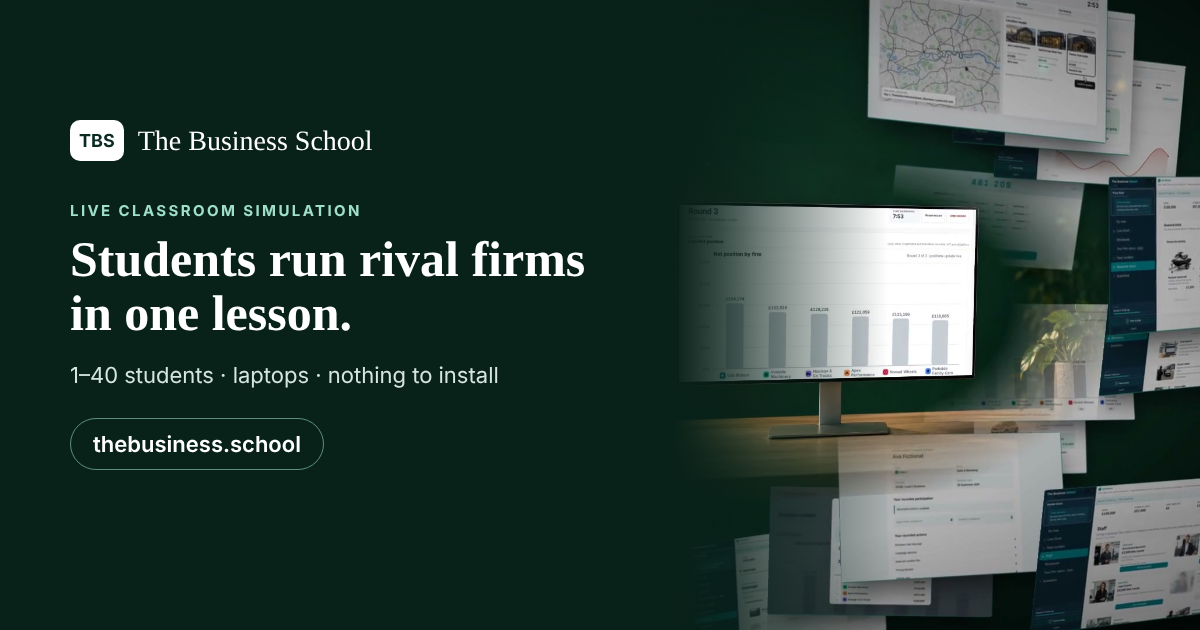
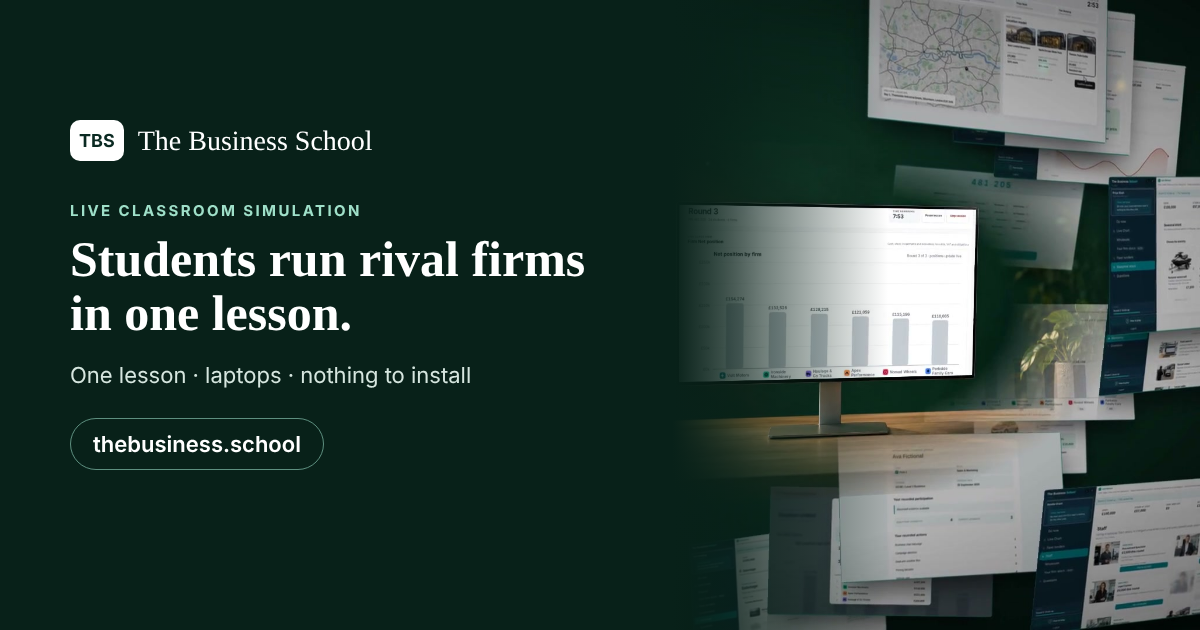
Site: hero without class-size limits, Edexcel topic guide wording, 18-pupil lobby in the timeline, share image and poster say one lesson, laptops, nothing to install (owner 23.10.2026)
Claude-Session: https://claude.ai/code/session_01Np2n7mwxyzcaQWByNZ1ReD

Changed region(s): [[0.0617, 0.573, 0.4317, 0.6333]]

diff --git a/index.html b/index.html
@@ -15,17 +15,17 @@
 <x-dc>
 <helmet>
 <title>The Business School, Live A-Level Business Simulation for Classrooms</title>
-<meta name="description" content="A live, PIN-join business simulation for A-Level, BTEC & IGCSE Business. Up to 10 teams run rival UK firms, pricing, VAT, hiring and deals, with key decisions linked to Edexcel topics. No install. Free teacher demo." />
+<meta name="description" content="A live business simulation for A Level, GCSE and BTEC Business. Students run rival firms in teams: pricing, negotiation, hiring and cash, in one lesson. Students join with a PIN. Free teacher demo." />
 <link rel="canonical" href="https://thebusiness.school/" />
 <meta name="robots" content="index,follow" />
 <meta property="og:type" content="website" />
 <meta property="og:title" content="The Business School, Live A-Level Business Simulation" />
-<meta property="og:description" content="Up to 10 student teams run rival UK firms in a live classroom simulation, with key decisions linked to Edexcel topics. Joined by a PIN. Free teacher demo." />
+<meta property="og:description" content="Students run rival firms in teams in a live classroom simulation: pricing, negotiation, hiring and cash, in one lesson. Free teacher demo." />
 <meta property="og:url" content="https://thebusiness.school/" />
-<meta property="og:image" content="https://thebusiness.school/assets/og-simulation.png?v=20261023a" />
+<meta property="og:image" content="https://thebusiness.school/assets/og-simulation.png?v=20261023b" />
 <meta name="twitter:card" content="summary_large_image" />
 <script type="application/ld+json">
-{"@context":"https://schema.org","@type":"SoftwareApplication","name":"The Business School","applicationCategory":"EducationalApplication","operatingSystem":"Web browser","offers":{"@type":"Offer","price":"0","priceCurrency":"GBP","description":"Free teacher demo"},"description":"A live multiplayer classroom business simulation for UK A-Level, BTEC and IGCSE Business, with key decisions linked to Edexcel topics.","publisher":{"@type":"Organization","name":"TBS Education Ltd Oy","identifier":"3614159-3","url":"https://thebusiness.school"}}
+{"@context":"https://schema.org","@type":"SoftwareApplication","name":"The Business School","applicationCategory":"EducationalApplication","operatingSystem":"Web browser","offers":{"@type":"Offer","price":"0","priceCurrency":"GBP","description":"Free teacher demo"},"description":"A live classroom business simulation for A Level, GCSE and BTEC Business: students run rival firms in teams in one lesson.","publisher":{"@type":"Organization","name":"TBS Education Ltd Oy","identifier":"3614159-3","url":"https://thebusiness.school"}}
 </script>
 <link rel="preconnect" href="https://fonts.googleapis.com" />
 <link rel="preconnect" href="https://fonts.gstatic.com" crossorigin="" />
@@ -163,23 +163,23 @@
     <sc-if value="{{ isSplit }}" hint-placeholder-val="{{ true }}">
       <div style="display:grid;grid-template-columns:repeat(auto-fit,minmax(320px,1fr));gap:48px;align-items:center">
         <div>
-          <span style="font-size:12px;font-weight:700;letter-spacing:.14em;text-transform:uppercase;color:#7fe0d7">A-Level · BTEC · IGCSE Business</span>
+          <span style="font-size:12px;font-weight:700;letter-spacing:.14em;text-transform:uppercase;color:#7fe0d7">A Level · GCSE · BTEC Business</span>
           <sc-if value="{{ pilotBadge }}" hint-placeholder-val="{{ true }}">
             <div style="display:inline-flex;align-items:center;gap:9px;margin:16px 0 2px;padding:7px 14px;border:1px solid rgba(255,255,255,.22);border-radius:999px;background:rgba(255,255,255,.06);font-size:12.5px;font-weight:600;color:#c9d5e8">
               <span style="width:7px;height:7px;border-radius:50%;background:#f0b53d;display:inline-block"></span>Free trial lessons from 2 Nov 2026.
             </div>
           </sc-if>
           <h1 style="font-weight:700;line-height:1.1;color:#fff;font-size:clamp(38px,4.7vw,58px);margin:16px 0 18px">Bring your next Business lesson to life.</h1>
-          <p style="font-size:clamp(16px,1.5vw,18.5px);color:#c9d5e8;max-width:520px">A browser-based business simulation where up to ten student teams compete in one market: pricing, VAT, hiring, investment and boardroom deals. Key decisions are linked to Edexcel topics. No install, students join with a PIN.</p>
+          <p style="font-size:clamp(16px,1.5vw,18.5px);color:#c9d5e8;max-width:520px">Students run rival firms in teams. They negotiate face to face, set prices, hire and manage cash, and watch the results live. One lesson, nothing to install.</p>
           <div style="display:flex;gap:12px;flex-wrap:wrap;margin-top:28px">
             <a href="/pilot/" style="display:inline-flex;align-items:center;gap:8px;font-weight:700;font-size:20px;padding:19px 38px;border-radius:12px;text-decoration:none;background:#0a6b73;color:#fff;border:1px solid transparent;box-shadow:0 8px 24px rgba(10,107,115,.35)" style-hover="background:#075158">Request a trial</a>
             <a href="/for-heads/" style="display:inline-flex;align-items:center;gap:8px;font-weight:600;font-size:15px;padding:13px 24px;border-radius:10px;text-decoration:none;background:rgba(255,255,255,.1);border:1px solid rgba(255,255,255,.3);color:#fff" style-hover="background:rgba(255,255,255,.18)">I lead a department</a>
           </div>
           <p style="margin-top:15px;font-size:13.5px;color:#8fa1bf">Or try the demo now: <a href="https://play.thebusiness.school/" style="color:#7fe0d7;font-weight:600;text-decoration:none">play.thebusiness.school</a></p>
           <div style="margin-top:26px;display:flex;gap:30px;flex-wrap:wrap;font-size:13.5px;color:#c9d5e8">
-            <div><div style="color:#fff;font-weight:600">1 to 40 students</div><div>Solo, or 2 to 10 rival teams</div></div>
+            <div><div style="color:#fff;font-weight:600">Teams</div><div>Every student has a role</div></div>
             <div><div style="color:#fff;font-weight:600">Flexible length</div><div>You set the pace</div></div>
-            <div><div style="color:#fff;font-weight:600">Edexcel topics</div><div>Linked to key decisions</div></div>
+            <div><div style="color:#fff;font-weight:600">Reports</div><div>One for every student</div></div>
           </div>
         </div>
         <div style="background:#fff;border:1px solid rgba(255,255,255,.5);border-radius:16px;box-shadow:0 40px 90px -40px rgba(0,0,0,.7);overflow:hidden;color:#16233f">
@@ -220,9 +220,9 @@
     <!-- PROJECTOR treatment -->
     <sc-if value="{{ isProjector }}" hint-placeholder-val="{{ false }}">
       <div style="text-align:center;max-width:860px;margin:0 auto">
-        <span style="font-size:12.5px;font-weight:700;letter-spacing:.2em;text-transform:uppercase;color:#a9e6df;text-shadow:0 1px 12px rgba(4,16,31,.8)">A-Level · BTEC · IGCSE Business</span>
+        <span style="font-size:12.5px;font-weight:700;letter-spacing:.2em;text-transform:uppercase;color:#a9e6df;text-shadow:0 1px 12px rgba(4,16,31,.8)">A Level · GCSE · BTEC Business</span>
         <h1 style="font-weight:700;line-height:1.08;color:#fff;font-size:clamp(42px,6.2vw,72px);margin:18px auto 0;max-width:900px;text-shadow:0 2px 16px rgba(4,16,31,.65)">Bring your next Business lesson to life.</h1>
-        <p style="font-size:clamp(17.5px,1.9vw,21px);font-weight:500;color:#f0f4f8;max-width:680px;margin:24px auto 0;line-height:1.55;text-shadow:0 1px 7px rgba(4,16,31,.65)">Your students run rival firms, live, in one lesson. Pricing, VAT, hiring and boardroom deals, with key decisions linked to Edexcel topics. No install, students join with a PIN.</p>
+        <p style="font-size:clamp(17.5px,1.9vw,21px);font-weight:500;color:#f0f4f8;max-width:680px;margin:24px auto 0;line-height:1.55;text-shadow:0 1px 7px rgba(4,16,31,.65)">Students run rival firms in teams. They negotiate face to face, set prices, hire and manage cash, and watch the results live. One lesson, nothing to install.</p>
         <sc-if value="{{ pilotBadge }}" hint-placeholder-val="{{ true }}">
           <div style="display:inline-flex;align-items:center;margin:24px auto 0;padding:9px 14px;border:1px solid rgba(255,255,255,.26);border-radius:6px;background:rgba(10,20,38,.42);font-size:14px;font-weight:600;color:#e2eaf6">
             Free trial lessons from 2 Nov 2026.
@@ -495,7 +495,7 @@
         <h3 style="font-family:'Fraunces',Georgia,serif;font-weight:600;color:#0e2038;font-size:23px;margin:12px 0 6px;line-height:1.2">Real decisions. Visible engagement. Fits the budget.</h3>
         <p style="font-size:13.5px;color:#65728c;margin-bottom:20px">You decide what the department adopts.</p>
         <ul style="list-style:none;display:flex;flex-direction:column;gap:13px;margin-bottom:24px">
-          <li style="display:flex;gap:11px;font-size:15px;color:#40506e"><svg style="color:#0a6b73;flex:0 0 auto;margin-top:2px" width="18" height="18" viewBox="0 0 24 24" fill="none"><path d="M5 12l4 4L19 7" stroke="currentColor" stroke-width="2.4" stroke-linecap="round" stroke-linejoin="round"/></svg><span>Key decisions are <b style="color:#16233f;font-weight:600">linked to Edexcel topics</b>, listed on the Curriculum page</span></li>
+          <li style="display:flex;gap:11px;font-size:15px;color:#40506e"><svg style="color:#0a6b73;flex:0 0 auto;margin-top:2px" width="18" height="18" viewBox="0 0 24 24" fill="none"><path d="M5 12l4 4L19 7" stroke="currentColor" stroke-width="2.4" stroke-linecap="round" stroke-linejoin="round"/></svg><span>A <b style="color:#16233f;font-weight:600">topic guide</b> for Edexcel A Level Business on the Curriculum page</span></li>
           <li style="display:flex;gap:11px;font-size:15px;color:#40506e"><svg style="color:#0a6b73;flex:0 0 auto;margin-top:2px" width="18" height="18" viewBox="0 0 24 24" fill="none"><path d="M5 12l4 4L19 7" stroke="currentColor" stroke-width="2.4" stroke-linecap="round" stroke-linejoin="round"/></svg><span>Students <b style="color:#16233f;font-weight:600">analyse, evaluate and decide</b> under time pressure</span></li>
           <li style="display:flex;gap:11px;font-size:15px;color:#40506e"><svg style="color:#0a6b73;flex:0 0 auto;margin-top:2px" width="18" height="18" viewBox="0 0 24 24" fill="none"><path d="M5 12l4 4L19 7" stroke="currentColor" stroke-width="2.4" stroke-linecap="round" stroke-linejoin="round"/></svg><span>A <b style="color:#16233f;font-weight:600">class analysis by email</b> within 48 hours: firm results and each student's recorded participation</span></li>
           <li style="display:flex;gap:11px;font-size:15px;color:#40506e"><svg style="color:#0a6b73;flex:0 0 auto;margin-top:2px" width="18" height="18" viewBox="0 0 24 24" fill="none"><path d="M5 12l4 4L19 7" stroke="currentColor" stroke-width="2.4" stroke-linecap="round" stroke-linejoin="round"/></svg><span>Licensed <b style="color:#16233f;font-weight:600">per school, per year</b>, never per seat, with a low-risk free pilot first</span></li>
@@ -524,7 +524,7 @@
     <div style="max-width:680px;margin-bottom:40px">
       <span style="font-size:12px;font-weight:700;letter-spacing:.14em;text-transform:uppercase;color:#0a6b73">The simulation</span>
       <h2 style="font-family:'Fraunces',Georgia,serif;font-weight:600;color:#0e2038;font-size:clamp(26px,3.2vw,37px);margin:12px 0;line-height:1.15;letter-spacing:-.01em">Real business decisions, not a quiz</h2>
-      <p style="color:#40506e;font-size:16.5px">From 1 to 40 students: up to ten firms of three or four compete in one shared market, live, and smaller classes run a firm each. We moved the simulation from a coffee shop chain to a vehicle dealership network, because a missing product often means a real negotiation with a competitor, not just a lower price.</p>
+      <p style="color:#40506e;font-size:16.5px">Firms of three or four students compete in one shared market, live. We moved the simulation from a coffee shop chain to a vehicle dealership network, because a missing product often means a real negotiation with a competitor, not just a lower price.</p>
     </div>
     <div style="background:#fff;border:1px solid #e3e9f1;border-radius:16px;overflow:hidden">
       <div style="display:grid;grid-template-columns:repeat(auto-fit,minmax(300px,1fr));gap:0;padding:16px 26px;border-bottom:1px solid #eef2f7;font-size:11px;font-weight:700;letter-spacing:.09em;text-transform:uppercase;color:#65728c">
@@ -569,7 +569,7 @@
     <div class="motor-gal">
       <figure class="motor-gal-item">
         <img src="/assets/tbs-web/motor-v4-01-lobby.png" width="1920" height="1080" loading="lazy" decoding="async" alt="The teacher's waiting room with the game PIN at the top and the names of the students who have joined" />
-        <figcaption>From 1 to 40 students in the room, joined with one PIN.</figcaption>
+        <figcaption>The whole class joins with one PIN.</figcaption>
       </figure>
       <figure class="motor-gal-item">
         <img src="/assets/tbs-web/motor-v5-setup.jpg" width="766" height="708" loading="lazy" decoding="async" alt="Teacher lesson setup: the class and the lesson length" />
@@ -643,7 +643,7 @@
       <li class="tbs-howto__step">
         <span class="tbs-howto__dot">1</span>
         <div class="tbs-howto__text"><h3>Students join with a PIN</h3><p>You pick the class and the lesson length.</p></div>
-        <img class="tbs-howto__img" src="/assets/tbs-web/howto/1-join.jpg" alt="Students join with a PIN" loading="lazy" width="1100" height="503">
+        <img class="tbs-howto__img" src="/assets/tbs-web/howto/1-join.jpg" alt="Students join with a PIN" loading="lazy" width="1100" height="809">
       </li>
       <li class="tbs-howto__step">
         <span class="tbs-howto__dot">2</span>
@@ -712,7 +712,7 @@
     <div style="background:#fff;border:1px solid #e3e9f1;border-radius:18px;padding:40px;display:grid;grid-template-columns:repeat(auto-fit,minmax(320px,1fr));gap:36px;align-items:center">
       <div>
         <span style="font-size:12px;font-weight:700;letter-spacing:.14em;text-transform:uppercase;color:#0a6b73">Why Heads trust it</span>
-        <h2 style="font-family:'Fraunces',Georgia,serif;font-weight:600;color:#0e2038;font-size:clamp(24px,2.9vw,32px);margin:12px 0 14px;line-height:1.15;letter-spacing:-.01em">Key decisions link to Edexcel topics</h2>
+        <h2 style="font-family:'Fraunces',Georgia,serif;font-weight:600;color:#0e2038;font-size:clamp(24px,2.9vw,32px);margin:12px 0 14px;line-height:1.15;letter-spacing:-.01em">A topic guide for your scheme of work</h2>
         <p style="color:#40506e;font-size:16px;margin-bottom:20px">During play students see plain instructions, not specification codes. The Curriculum page is a guide to the Edexcel 9BS0 topic for each key activity, not a mapping to any exam board, and your class analysis shows the topic of every Knowledge Check question. Check it against your own scheme of work.</p>
         <a href="/curriculum-mapping/" style="display:inline-flex;align-items:center;gap:8px;font-weight:600;font-size:15px;padding:12px 22px;border-radius:10px;text-decoration:none;background:#fff;border:1px solid #e3e9f1;color:#16233f" style-hover="border-color:#0a6b73;color:#0a6b73">See the topic guide</a>
       </div>
@@ -767,7 +767,7 @@
       </details>
       <details style="border:1px solid #e3e9f1;border-radius:11px;background:#fff;padding:4px 20px;margin-bottom:12px">
         <summary style="list-style:none;cursor:pointer;font-weight:600;font-size:16px;color:#0e2038;padding:16px 0;display:flex;justify-content:space-between;align-items:center">How many students, and how long does it take?<span style="color:#0a6b73;font-size:22px;font-weight:400">＋</span></summary>
-        <p style="color:#40506e;font-size:15px;padding:0 0 18px">From 1 to 40 students: with 6 or more, up to 10 firms of 3 or 4; with 1 student, a firm against computer firms; with 2 to 5, a firm each, ranked against each other (4 or 5 also trade with each other). After up to 3 minutes of firm setup there are three rounds, and you set each round to 10, 15, 20 or 25 minutes. The rounds move on by themselves when the clock runs out, so it never stalls.</p>
+        <p style="color:#40506e;font-size:15px;padding:0 0 18px">Up to 40 students. Most classes play in teams of 3 or 4, and smaller classes run a firm each. After up to 3 minutes of firm setup there are three rounds, and you set each round to 10, 15, 20 or 25 minutes. The rounds move on by themselves when the clock runs out, so it never stalls.</p>
       </details>
       <details style="border:1px solid #e3e9f1;border-radius:11px;background:#fff;padding:4px 20px;margin-bottom:12px">
         <summary style="list-style:none;cursor:pointer;font-weight:600;font-size:16px;color:#0e2038;padding:16px 0;display:flex;justify-content:space-between;align-items:center">What does the teacher see and control?<span style="color:#0a6b73;font-size:22px;font-weight:400">＋</span></summary>

diff --git a/curriculum-faq/index.html b/curriculum-faq/index.html
@@ -25,7 +25,7 @@
 <link rel="canonical" href="https://thebusiness.school/faq/" />
 <meta property="og:title" content="FAQ, The Business School" />
 <meta property="og:url" content="https://thebusiness.school/faq/" />
-<script type="application/ld+json">{"@context":"https://schema.org","@type":"FAQPage","mainEntity":[{"@type":"Question","name":"Is it free for teachers?","acceptedAnswer":{"@type":"Answer","text":"The teacher demo is free and needs no credit card. Licensing is per school or per MAT, per year, with a free classroom pilot before any commitment."}},{"@type":"Question","name":"Which levels does it fit?","acceptedAnswer":{"@type":"Answer","text":"The game runs at two levels: Level 2 (GCSE-level) and Level 3 (A level-level). When you set up a lesson you choose your qualification; that sets the level and the topics on offer, and names your course in the reports. The Knowledge Check questions are written for the level and the topic, not for one specification. During play students see plain instructions, not specification codes."}},{"@type":"Question","name":"Do students need to install anything or make accounts?","acceptedAnswer":{"@type":"Answer","text":"No. It runs in the browser on a laptop, desktop or Chromebook, one screen per student. Students open the link and join with a 6-digit PIN and a first name, nothing to download and no logins to manage."}},{"@type":"Question","name":"How many students, and how long does it take?","acceptedAnswer":{"@type":"Answer","text":"From 1 to 40 students: with 6 or more, up to 10 firms of 3 or 4; with 1 student, a firm against computer firms; with 2 to 5, a firm each, ranked against each other (4 or 5 also trade with each other). After up to 3 minutes of setup there are three rounds, and you set each round to 10, 15, 20 or 25 minutes, so a session fits a one-hour lesson or a longer one."}},{"@type":"Question","name":"What does the teacher see and control?","acceptedAnswer":{"@type":"Answer","text":"A live control panel: pause and resume the rounds, start an optional class event, see every student’s role and activity, and project the live chart of every firm’s net position. Afterwards each student downloads a private report, and your class analysis arrives by email within 48 hours, with indicative learning evidence."}},{"@type":"Question","name":"Does it mark my students?","acceptedAnswer":{"@type":"Answer","text":"No. It produces no automatic or official mark and no score out of 100, and the reports rank firms, not students. It records decisions and multiple-choice question results, and shows the specification topic of each question, as indicative learning evidence. Students can download a certificate of completion that records participation only. Assessment stays with the teacher."}},{"@type":"Question","name":"How is it licensed?","acceptedAnswer":{"@type":"Answer","text":"One licence per school, or per MAT, per year, never per seat and never per student. You run a free classroom pilot first, then request a quote."}}]}</script>
+<script type="application/ld+json">{"@context":"https://schema.org","@type":"FAQPage","mainEntity":[{"@type":"Question","name":"Is it free for teachers?","acceptedAnswer":{"@type":"Answer","text":"The teacher demo is free and needs no credit card. Licensing is per school or per MAT, per year, with a free classroom pilot before any commitment."}},{"@type":"Question","name":"Which levels does it fit?","acceptedAnswer":{"@type":"Answer","text":"The game runs at two levels: Level 2 (GCSE-level) and Level 3 (A level-level). When you set up a lesson you choose your qualification; that sets the level and the topics on offer, and names your course in the reports. The Knowledge Check questions are written for the level and the topic, not for one specification. During play students see plain instructions, not specification codes."}},{"@type":"Question","name":"Do students need to install anything or make accounts?","acceptedAnswer":{"@type":"Answer","text":"No. It runs in the browser on a laptop, desktop or Chromebook, one screen per student. Students open the link and join with a 6-digit PIN and a first name, nothing to download and no logins to manage."}},{"@type":"Question","name":"How many students, and how long does it take?","acceptedAnswer":{"@type":"Answer","text":"Up to 40 students. Most classes play in teams of 3 or 4, and smaller classes run a firm each. After up to 3 minutes of setup there are three rounds, and you set each round to 10, 15, 20 or 25 minutes, so a session fits a one-hour lesson or a longer one."}},{"@type":"Question","name":"What does the teacher see and control?","acceptedAnswer":{"@type":"Answer","text":"A live control panel: pause and resume the rounds, start an optional class event, see every student’s role and activity, and project the live chart of every firm’s net position. Afterwards each student downloads a private report, and your class analysis arrives by email within 48 hours, with indicative learning evidence."}},{"@type":"Question","name":"Does it mark my students?","acceptedAnswer":{"@type":"Answer","text":"No. It produces no automatic or official mark and no score out of 100, and the reports rank firms, not students. It records decisions and multiple-choice question results, and shows the specification topic of each question, as indicative learning evidence. Students can download a certificate of completion that records participation only. Assessment stays with the teacher."}},{"@type":"Question","name":"How is it licensed?","acceptedAnswer":{"@type":"Answer","text":"One licence per school, or per MAT, per year, never per seat and never per student. You run a free classroom pilot first, then request a quote."}}]}</script>
 <link rel="preconnect" href="https://fonts.googleapis.com" /><link rel="preconnect" href="https://fonts.gstatic.com" crossorigin="" />
 <link href="https://fonts.googleapis.com/css2?family=Fraunces:opsz,wght@9..144,400;9..144,500;9..144,600&family=Inter:wght@400;500;600;700&display=swap" rel="stylesheet" />
 <style>*{box-sizing:border-box;margin:0;padding:0}html{scroll-behavior:smooth}body{-webkit-font-smoothing:antialiased;overflow-x:hidden}details summary::-webkit-details-marker{display:none}</style>
@@ -125,7 +125,7 @@ class Component extends DCLogic {
       { q: 'Is it free for teachers?', a: 'The teacher demo is free and needs no credit card. Licensing is per school or per MAT, per year, with a free classroom pilot before any commitment.' },
       { q: 'Which levels does it fit?', a: 'The game runs at two levels: Level 2 (GCSE-level) and Level 3 (A level-level). When you set up a lesson you choose your qualification; that sets the level and the topics on offer, and names your course in the reports. The Knowledge Check questions are written for the level and the topic, not for one specification. During play students see plain instructions, not specification codes.' },
       { q: 'Do students need to install anything or make accounts?', a: 'No. It runs in the browser on a laptop, desktop or Chromebook, one screen per student. Students open the link and join with a 6-digit PIN and a first name, nothing to download, no logins to manage.' },
-      { q: 'How many students, and how long does it take?', a: 'From 1 to 40 students: with 6 or more, up to 10 firms of 3 or 4; with 1 student, a firm against computer firms; with 2 to 5, a firm each, ranked against each other (4 or 5 also trade with each other). After up to 3 minutes of setup there are three rounds, and you set each round to 10, 15, 20 or 25 minutes, so a session fits a one-hour lesson or a longer one.' },
+      { q: 'How many students, and how long does it take?', a: 'Up to 40 students. Most classes play in teams of 3 or 4, and smaller classes run a firm each. After up to 3 minutes of setup there are three rounds, and you set each round to 10, 15, 20 or 25 minutes, so a session fits a one-hour lesson or a longer one.' },
       { q: 'What does the teacher see and control?', a: 'A live control panel: pause and resume the rounds, start an optional class event, see every student’s role and activity, and project the live chart of every firm’s net position. Afterwards each student downloads a private report, and your class analysis arrives by email within 48 hours, with indicative learning evidence.' },
       { q: 'Does it mark my students?', a: 'No. It produces no automatic or official mark and no score out of 100, and the reports rank firms, not students. It records decisions and multiple-choice question results, and shows the specification topic of each question, as indicative learning evidence. Students can download a certificate of completion that records participation only. Assessment stays with the teacher.' },
       { q: 'How is it licensed?', a: 'One licence per school, or per MAT, per year, never per seat and never per student. You run a free classroom pilot first, then request a quote sized to your setting.' },

diff --git a/us/index.html b/us/index.html
@@ -15,7 +15,7 @@
 <x-dc>
 <helmet>
 <title>The Business School, a live business simulation for high school classrooms</title>
-<meta name="description" content="A live, PIN-join business simulation for high school Business, grades 9 to 12. Every student runs a car dealership: pricing, deals with classmates, loans and staff. 30 to 75 minutes, 1 to 40 students. Free trial for your school." />
+<meta name="description" content="A live, PIN-join business simulation for high school Business, grades 9 to 12. Every student runs a car dealership: pricing, deals with classmates, loans and staff. 30 to 75 minutes. Free trial for your school." />
 <link rel="canonical" href="https://thebusiness.school/us/" />
 <meta name="robots" content="index,follow" />
 <meta property="og:type" content="website" />
@@ -172,7 +172,7 @@
           </div>
           <p style="margin-top:15px;font-size:13.5px;color:#8fa1bf">Or try the demo now: <a href="https://play.thebusiness.school/" style="color:#7fe0d7;font-weight:600;text-decoration:none">play.thebusiness.school</a></p>
           <div style="margin-top:26px;display:flex;gap:30px;flex-wrap:wrap;font-size:13.5px;color:#c9d5e8">
-            <div><div style="color:#fff;font-weight:600">1 to 40 students</div><div>Solo, or 2 to 10 rival teams</div></div>
+            <div><div style="color:#fff;font-weight:600">Teams</div><div>Every student has a role</div></div>
             <div><div style="color:#fff;font-weight:600">Flexible length</div><div>You set the pace</div></div>
             <div><div style="color:#fff;font-weight:600">Grades 9–12</div><div>Ages 14 to 18</div></div>
           </div>
@@ -452,7 +452,7 @@
     <div style="max-width:680px;margin-bottom:40px">
       <span style="font-size:12px;font-weight:700;letter-spacing:.14em;text-transform:uppercase;color:#0a6b73">The simulation</span>
       <h2 style="font-family:'Fraunces',Georgia,serif;font-weight:600;color:#0e2038;font-size:clamp(26px,3.2vw,37px);margin:12px 0;line-height:1.15;letter-spacing:-.01em">Real business decisions, not a quiz</h2>
-      <p style="color:#40506e;font-size:16.5px">From 1 to 40 students: up to ten firms of three or four compete in one shared market, live, and smaller classes run a firm each. We moved the simulation from a coffee shop chain to a vehicle dealership network, because a missing product often means a real negotiation with a competitor, not just a lower price.</p>
+      <p style="color:#40506e;font-size:16.5px">Firms of three or four students compete in one shared market, live. We moved the simulation from a coffee shop chain to a vehicle dealership network, because a missing product often means a real negotiation with a competitor, not just a lower price.</p>
     </div>
     <div style="background:#fff;border:1px solid #e3e9f1;border-radius:16px;overflow:hidden">
       <div style="display:grid;grid-template-columns:repeat(auto-fit,minmax(300px,1fr));gap:0;padding:16px 26px;border-bottom:1px solid #eef2f7;font-size:11px;font-weight:700;letter-spacing:.09em;text-transform:uppercase;color:#65728c">
@@ -497,7 +497,7 @@
     <div class="motor-gal">
       <figure class="motor-gal-item">
         <img src="/assets/tbs-web/us/us-v-01-lobby.jpg" width="1920" height="1080" loading="lazy" decoding="async" alt="The teacher's waiting room with the game PIN at the top and the names of the students who have joined" />
-        <figcaption>From 1 to 40 students in the room, joined with one PIN.</figcaption>
+        <figcaption>The whole class joins with one PIN.</figcaption>
       </figure>
       <figure class="motor-gal-item">
         <img src="/assets/tbs-web/us/us-v-02-setup.jpg" width="1920" height="1080" loading="lazy" decoding="async" alt="Teacher session setup with the course, the topic and the lesson length" />
@@ -658,7 +658,7 @@
       </details>
       <details style="border:1px solid #e3e9f1;border-radius:11px;background:#fff;padding:4px 20px;margin-bottom:12px">
         <summary style="list-style:none;cursor:pointer;font-weight:600;font-size:16px;color:#0e2038;padding:16px 0;display:flex;justify-content:space-between;align-items:center">How many students, and how long does it take?<span style="color:#0a6b73;font-size:22px;font-weight:400">＋</span></summary>
-        <p style="color:#40506e;font-size:15px;padding:0 0 18px">From 1 to 40 students: with 6 or more, up to 10 firms of 3 or 4; with 1 student, a firm against computer firms; with 2 to 5, a firm each, ranked against each other (4 or 5 also trade with each other). After up to 3 minutes of firm setup there are three rounds, and you set each round to 10, 15, 20 or 25 minutes. The rounds move on by themselves when the clock runs out, so it never stalls.</p>
+        <p style="color:#40506e;font-size:15px;padding:0 0 18px">Up to 40 students. Most classes play in teams of 3 or 4, and smaller classes run a firm each. After up to 3 minutes of firm setup there are three rounds, and you set each round to 10, 15, 20 or 25 minutes. The rounds move on by themselves when the clock runs out, so it never stalls.</p>
       </details>
       <details style="border:1px solid #e3e9f1;border-radius:11px;background:#fff;padding:4px 20px;margin-bottom:12px">
         <summary style="list-style:none;cursor:pointer;font-weight:600;font-size:16px;color:#0e2038;padding:16px 0;display:flex;justify-content:space-between;align-items:center">What does the teacher see and control?<span style="color:#0a6b73;font-size:22px;font-weight:400">＋</span></summary>

diff --git a/waitlist/index.html b/waitlist/index.html
@@ -11,7 +11,7 @@
   <meta property="og:title" content="Request a trial | The Business School">
   <meta property="og:description" content="Bring your next Business lesson to life. Request a free trial lesson of our live classroom simulation.">
   <meta property="og:url" content="https://thebusiness.school/waitlist/">
-  <meta property="og:image" content="https://thebusiness.school/assets/og-simulation.png?v=20261023a">
+  <meta property="og:image" content="https://thebusiness.school/assets/og-simulation.png?v=20261023b">
   <meta name="twitter:card" content="summary_large_image">
   <link rel="icon" href="/favicon.ico" sizes="any">
   <link rel="icon" type="image/svg+xml" href="/assets/favicon.svg">
@@ -41,7 +41,7 @@
         <div>
           <p class="eyebrow">Live classroom simulation · free trial lessons from 2 November</p>
           <h1 id="hero-title">Bring your next Business lesson to life.</h1>
-          <p class="hero-copy">1–40 students run rival motor dealerships in one live lesson. They set prices, manage stock and respond to what competing firms do. Students join with a PIN; there’s nothing to install.</p>
+          <p class="hero-copy">Students run rival motor dealerships in one live lesson. They set prices, manage stock and respond to what competing firms do. Students join with a PIN; there’s nothing to install.</p>
           <p class="access-timing">Trials open on 2 November 2026. We’ll email your trial key and how to start.</p>
           <a class="more-link" href="/">See how it works <span aria-hidden="true">→</span></a>
           <figure class="testimonial">

diff --git a/for-teachers/index.html b/for-teachers/index.html
@@ -11,7 +11,7 @@
 <link rel="apple-touch-icon" href="/apple-touch-icon.png">
 <meta property="og:type" content="website">
 <meta property="og:description" content="How a live A-Level Business simulation runs in your classroom: no install, no student logins, PIN join on a laptop or Chromebook, three rounds of 10 to 25 minutes, a private report for each student and a class analysis by email within 48 hours. Free teacher demo.">
-<meta property="og:image" content="https://thebusiness.school/assets/og-simulation.png?v=20261023a">
+<meta property="og:image" content="https://thebusiness.school/assets/og-simulation.png?v=20261023b">
 <meta property="og:image:width" content="1200">
 <meta property="og:image:height" content="630">
 <meta property="og:site_name" content="The Business School">

diff --git a/for-heads/index.html b/for-heads/index.html
@@ -11,7 +11,7 @@
 <link rel="apple-touch-icon" href="/apple-touch-icon.png">
 <meta property="og:type" content="website">
 <meta property="og:description" content="The department case for a live A-Level Business simulation whose key decisions link to Edexcel topics: measurable engagement, exam-technique practice, per-school licensing and a low-risk free pilot.">
-<meta property="og:image" content="https://thebusiness.school/assets/og-simulation.png?v=20261023a">
+<meta property="og:image" content="https://thebusiness.school/assets/og-simulation.png?v=20261023b">
 <meta property="og:image:width" content="1200">
 <meta property="og:image:height" content="630">
 <meta property="og:site_name" content="The Business School">
